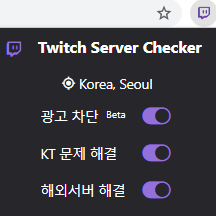
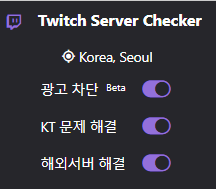
Add files via upload

diff --git a/index.html b/index.html
@@ -63,12 +63,23 @@
 		<hr style="margin-top: 50px;">
 		<div style="margin-top: 50px;">
 			<h1 id="기능">기능</h1>
-			<p>1. <del>한글에서만 "생방송" 표기가 세로로 되던 문제를 해결해줍니다.</del></p>
+			<p>1. <del>한글에서만 "생방송" 표기가 세로로 되던 문제를 해결해줍니다.</del> <del>기능에서 제거</del></p>
 			<img src="live.png">
-			<p><del>기능에서 제거</del></p>
 		</div>
 		<div style="margin-top: 50px;">
-			<img src="pro.png">
+			<table cellpadding="10" style="background-color: #222">
+				<th colspan="2" style="background-color: #444">실행 이미지</th>
+				<tr>
+					<td style="vertical-align: top;">
+						<h4>무료버전</h4>
+						<img src="tsc.png">
+					</td>
+					<td>
+						<h4>Pro버전</h4>
+						<img src="pro.png">
+					</td>
+				</tr>
+			</table>
 			<p>2. 서버 위치를 확인해줍니다.</p>
 			<p>3. 광고차단 βeta (Pro 버전) : 모든 광고를 제거하지는 못합니다.</p>
 			<div id="kt">
